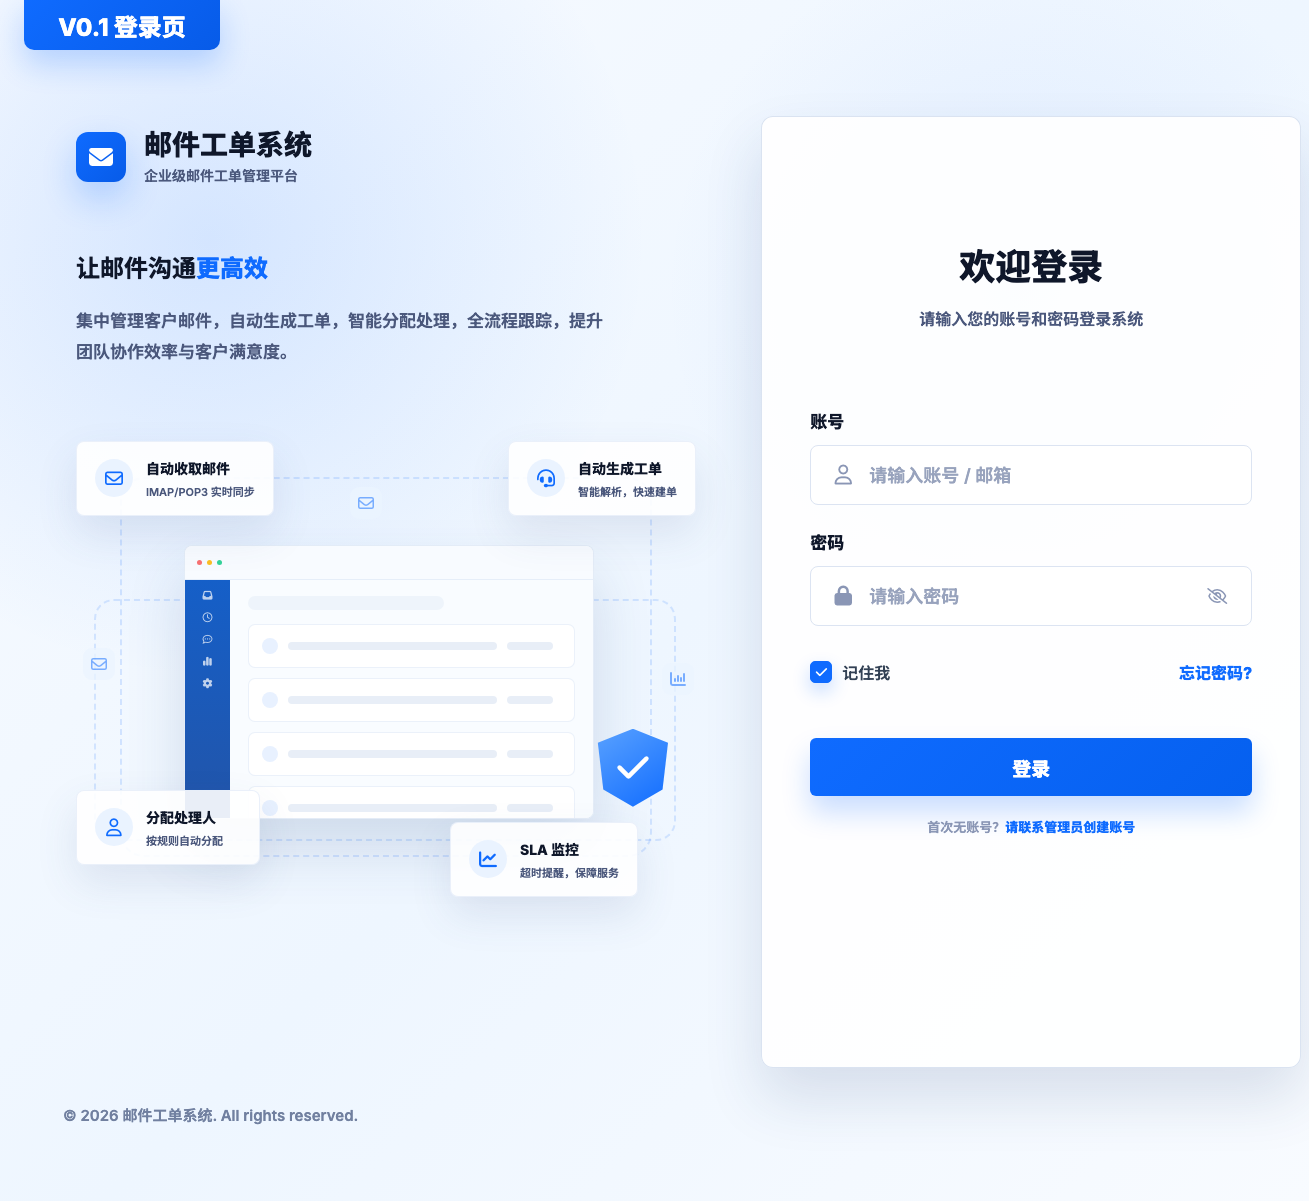
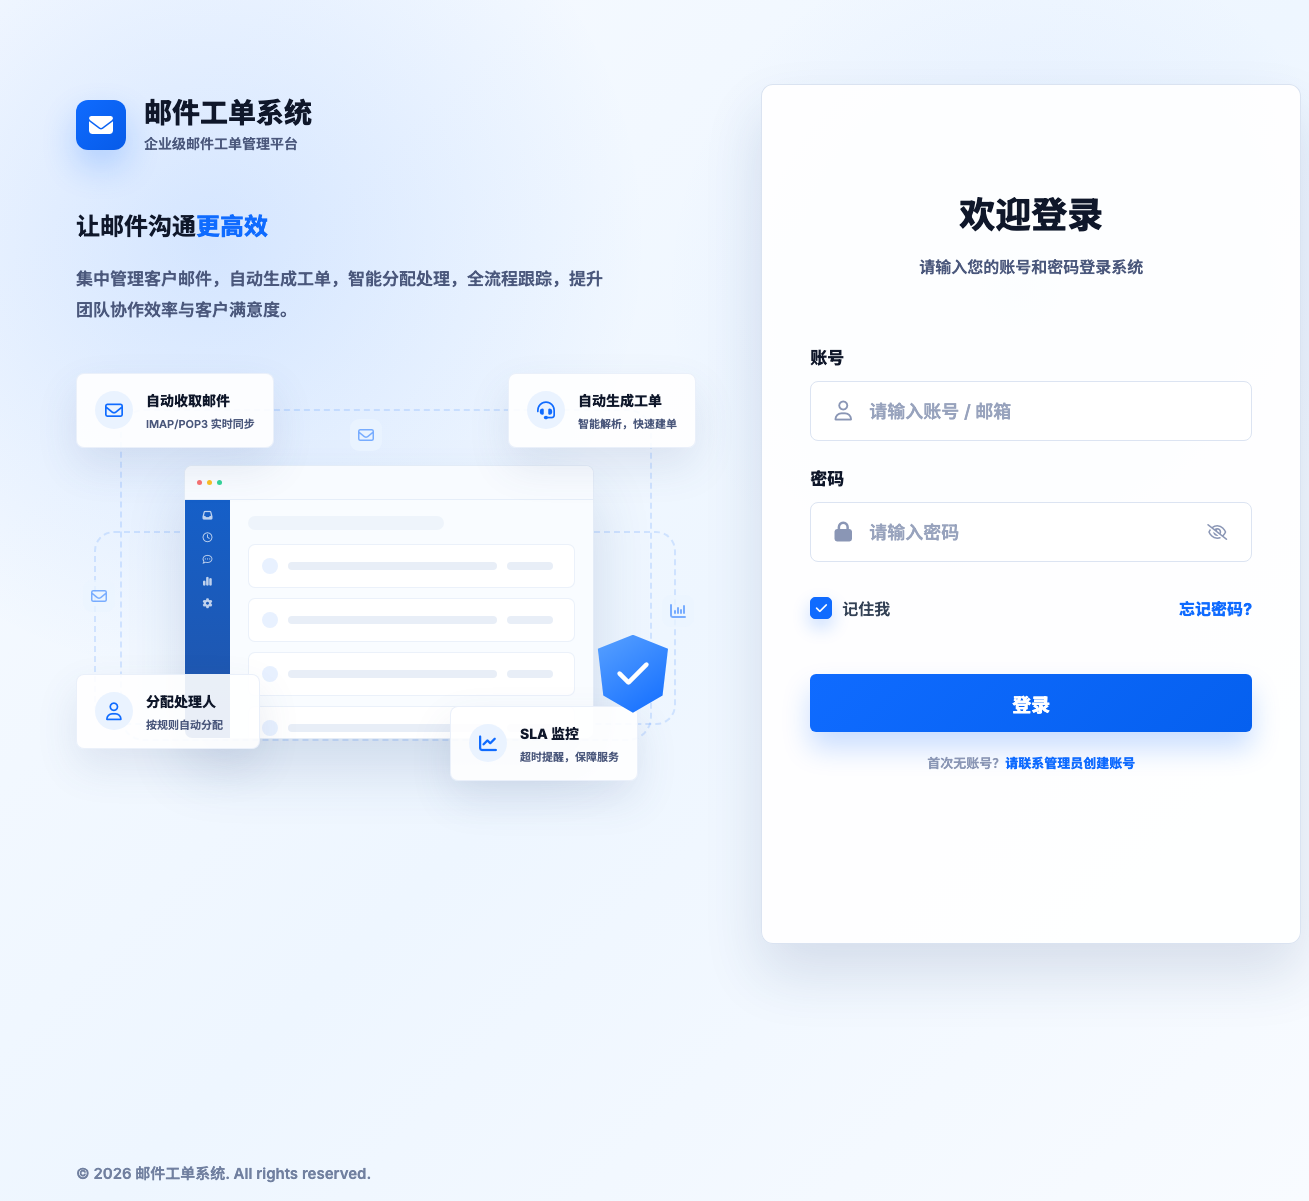
docs: update login prototype chrome

diff --git a/docs/原型设计/5、邮件工单系统-登录页原型.html b/docs/原型设计/5、邮件工单系统-登录页原型.html
@@ -73,24 +73,6 @@
                 linear-gradient(135deg, #f8fbff 0%, #eef6ff 52%, #f8fbff 100%);
         }
 
-        .version-badge {
-            position: absolute;
-            top: 0;
-            left: 24px;
-            z-index: 20;
-            height: 50px;
-            min-width: 196px;
-            padding: 0 32px;
-            border: 0;
-            border-radius: 0 0 10px 10px;
-            color: #fff;
-            font-size: 24px;
-            font-weight: 800;
-            letter-spacing: 0;
-            background: linear-gradient(135deg, #0f6bff 0%, #075be8 100%);
-            box-shadow: 0 14px 30px rgba(15, 107, 255, 0.24);
-        }
-
         .page {
             width: 100%;
             height: 100vh;
@@ -684,8 +666,10 @@
 
         .footer {
             position: absolute;
-            left: 63px;
-            bottom: 76px;
+            left: clamp(48px, 5.8vw, 120px);
+            right: clamp(48px, 5.8vw, 120px);
+            bottom: 18px;
+            z-index: 4;
             color: #7180a0;
             font-size: 15px;
             font-weight: 600;
@@ -783,14 +767,6 @@
         }
 
         @media (max-width: 640px) {
-            .version-badge {
-                left: 16px;
-                min-width: 150px;
-                height: 44px;
-                padding: 0 20px;
-                font-size: 18px;
-            }
-
             .page {
                 padding: 76px 18px 32px;
             }
@@ -862,8 +838,6 @@
     <div class="prototype-shell">
         <div class="prototype-stage" id="prototypeStage">
             <div class="prototype-artboard">
-                <button class="version-badge" type="button">V0.1 登录页</button>
-
                 <main class="page">
         <section class="intro" aria-label="产品介绍">
             <div class="brand">

diff --git a/design-qa.md b/design-qa.md
@@ -15,13 +15,14 @@ final result: passed
 | Area | Result | Notes |
 |------|--------|-------|
 | Layout | passed | Two-column desktop layout matches the reference structure. |
-| Brand area | passed | Version badge, product name, subtitle, headline, and capability copy are present. |
+| Brand area | passed | Product name, subtitle, headline, and capability copy are present; the earlier version badge has been removed. |
 | Illustration | passed | Left workflow illustration approximates the reference using existing system UI language. |
 | Login card | passed | Card position, scale, title, inputs, remember row, forgot action, and primary button align with the reference. |
 | Interaction states | passed | Required, error, loading, success, password toggle, forgot password, and no-account states are implemented. |
 | Wide-screen scaling | passed | Prototype now uses a full-width browser canvas with a balanced inner grid, removing the large blank side gutters on wide screens. |
 | Column balance | passed | Left content column is widened and the right login panel/form is narrowed so the two sides read with more balanced visual weight. |
 | Single-screen fit | passed | Wide-screen verification fits the login page in one viewport without visible page scrolling. |
+| Version badge and footer | passed | The top-left version badge is removed and the copyright text is anchored at the bottom of the page. |
 
 ## Follow-Up Notes
 

diff --git a/docs/项目进度与阶段规划.md b/docs/项目进度与阶段规划.md
@@ -43,7 +43,7 @@ date: 2026-07-22
 | 阻塞项 | PG-01 登录页原型待谭总确认 |
 | 完成条件 | 谭总确认后，将 PR-01/PG-01、P1-W0-01 标为 ✅，执行游标推进到 `P1-W0-02` |
 | 下一任务 | `P1-W0-02` 用户管理原型 |
-| 最后核对时间 | 2026-07-22 15:58 CST |
+| 最后核对时间 | 2026-07-22 16:01 CST |
 
 ### 0.2 状态标识
 
@@ -747,6 +747,7 @@ date: 2026-07-22
 | 2026-07-22 15:52 | P1-W0-01-feedback | 🧪 -> 🧪 | 谭总反馈左右宽度不协调；Chrome 宽屏截图复测 | 左侧内容区加宽，右侧登录卡与表单收窄；PG-01 仍待谭总确认 | AI | 等待 PG-01 验收 |
 | 2026-07-22 15:56 | P1-W0-01-feedback | 🧪 -> 🧪 | 谭总反馈左右留白过宽；Chrome 宽屏截图复测 | 取消居中固定画布，改为全宽浏览器画布与响应式内部栅格；PG-01 仍待谭总确认 | AI | 等待 PG-01 验收 |
 | 2026-07-22 15:58 | P1-W0-01-feedback | 🧪 -> 🧪 | 谭总反馈页面超出一屏出现滚动；Chrome 宽屏截图复测 | 压缩页面上下留白、登录卡高度和表单间距；宽屏一屏内完整展示；PG-01 仍待谭总确认 | AI | 等待 PG-01 验收 |
+| 2026-07-22 16:01 | P1-W0-01-feedback | 🧪 -> 🧪 | 谭总反馈移除左上版本标签、版权放到底部；Chrome 宽屏截图复测 | 已移除 `V0.1 登录页` 标签，版权签名固定到底部；PG-01 仍待谭总确认 | AI | 等待 PG-01 验收 |
 
 ---
 

diff --git a/docs/验收记录/P1-W0-01.md b/docs/验收记录/P1-W0-01.md
@@ -33,7 +33,8 @@
 - 已根据谭总反馈调整左右宽度：左侧内容区加宽，右侧登录卡与表单收窄，降低右侧视觉重量。
 - 已根据谭总反馈取消居中固定画布：背景与内容容器改为铺满浏览器宽度，避免宽屏下左右出现大块空白。
 - 已根据谭总反馈压缩纵向尺寸：页面上下留白、登录卡高度、表单顶部间距已收紧，宽屏截图一屏内完整展示。
-- 页面保留参考图中的版本角标、左侧品牌区、能力说明、流程插画、右侧登录卡片、版权信息。
+- 已根据谭总反馈移除左上版本角标，并将版权签名固定到底部。
+- 页面保留左侧品牌区、能力说明、流程插画、右侧登录卡片、版权信息。
 - 桌面视口未发现文字重叠、按钮溢出、输入框错位。
 - 已提供窄屏等比缩放：较小窗口下完整设计画布按比例缩小，避免内容挤压或重叠。
 
